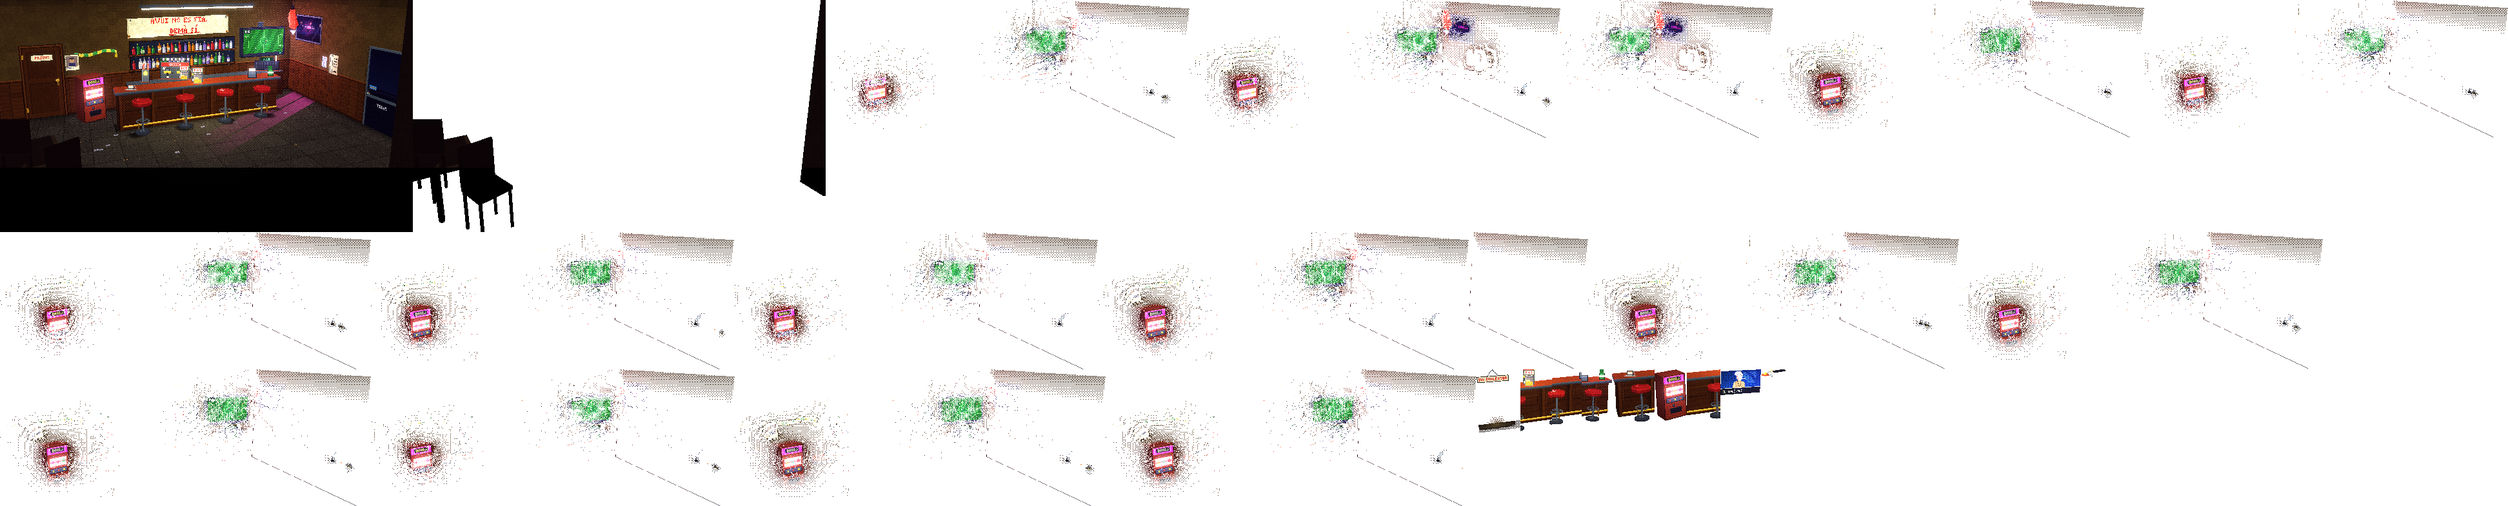
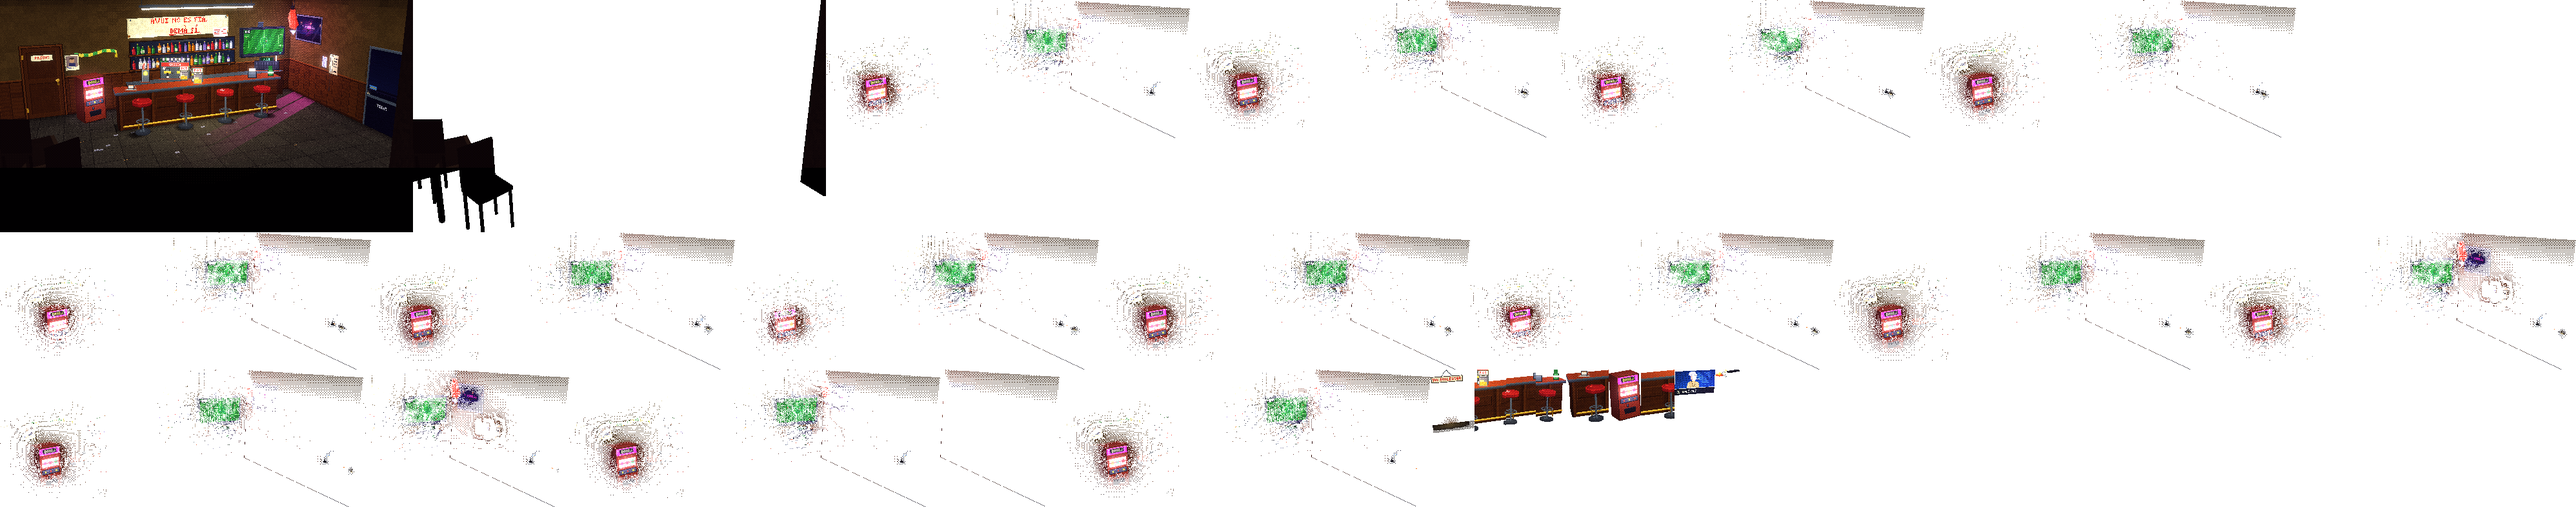
Suma Zero: a la cantonada del rètol del bar hi ha el paper de la wifi que diu el text, amb les contrasenyes velles ratllades (232)

diff --git a/games/suma-zero/adapters/benne/tools/hd640/rooms/bar_sala_pla_comu.py b/games/suma-zero/adapters/benne/tools/hd640/rooms/bar_sala_pla_comu.py
@@ -226,6 +226,26 @@ def sign(cv):
     # taques de rovell als cantons
     for (x, y) in ((x0 + 3, y1 - 3), (x1 - 4, y1 - 4), (x1 - 3, y0 + 1)):
         cv.disc(x, y, 2.6, 2, [(40, 20, 8), (90, 50, 20), (130, 80, 30)], lambda nx, ny: 1.0 + (nx * nx + ny * ny) * 1.4)
+    wifi_paper(cv)
+
+
+def wifi_paper(cv):
+    """El paper de la contrasenya de la wifi (tasca 232), enganxat amb cinta a la cantonada de baix a la dreta del
+    rètol: les de les setmanes passades, ratllades, i la d'aquesta setmana a sota."""
+    x0, y0, x1, y1 = SIGN
+    px0, py0, px1, py1 = x1 - 34, y1 - 12, x1 - 2, y1 + 14
+    cv.poly([(px0, py0 + 1), (px1, py0), (px1 + 1, py1), (px0 + 1, py1 + 1)], SHEET,
+            lambda x, y: 3.9 + (hr(x // 3, y // 3, 4) - 0.5) * 0.4)
+    for tx in (px0 + 1, px1 - 7):                                    # la cinta, als cantons de dalt
+        cv.rect(tx, py0 - 2, tx + 6, py0 + 1, [(120, 116, 100), (170, 166, 150), (210, 206, 190)], 2.6)
+    for i, w in enumerate((22, 18, 24)):                             # les velles, escrites i ratllades
+        y = py0 + 4 + i * 4
+        for x in range(px0 + 4, px0 + 4 + w, 2):
+            cv.put(x, y, [(30, 40, 90), (60, 70, 140)], 1.4 + hr(x, y, 3) * 0.6)
+        cv.line(px0 + 3, y + (1 if i % 2 else 0), px0 + 5 + w, y - (1 if i % 2 else 0), INKP, 2.2)
+    for x in range(px0 + 4, px1 - 4):                                # la d'aquesta setmana, més gruixuda
+        cv.put(x, py1 - 6, [(20, 26, 70), (50, 60, 130)], 1.8 if (x - px0) % 4 else 0.6)
+        cv.put(x, py1 - 5, [(20, 26, 70), (50, 60, 130)], 1.2 if (x - px0) % 3 else 0.4)
 
 
 def bottle(cv, x, base, h, w, r, label):
